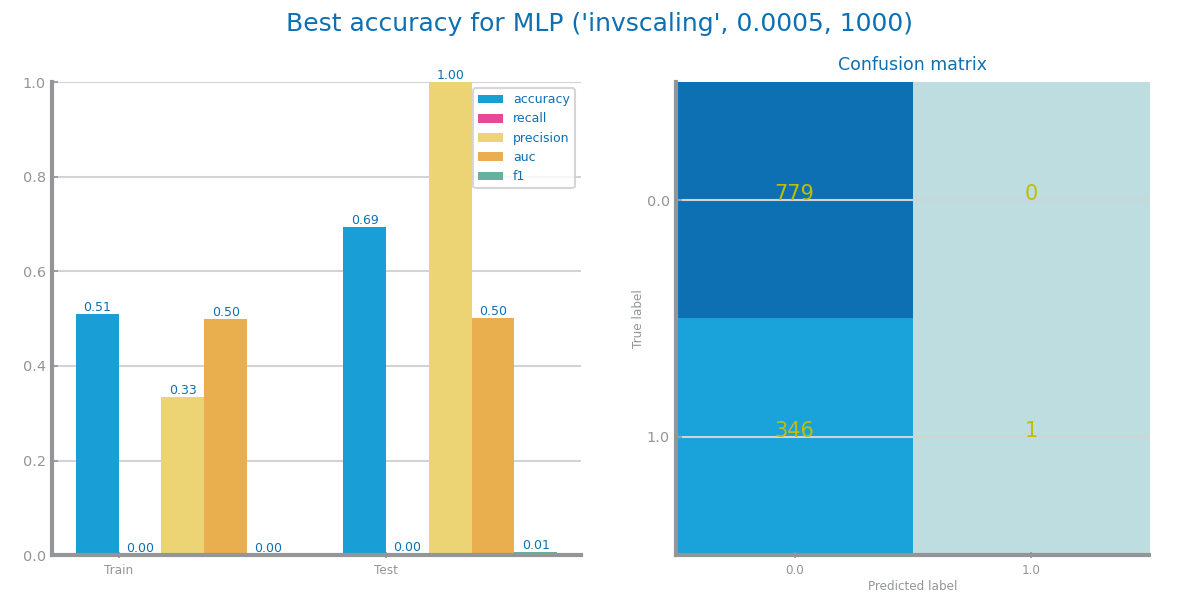
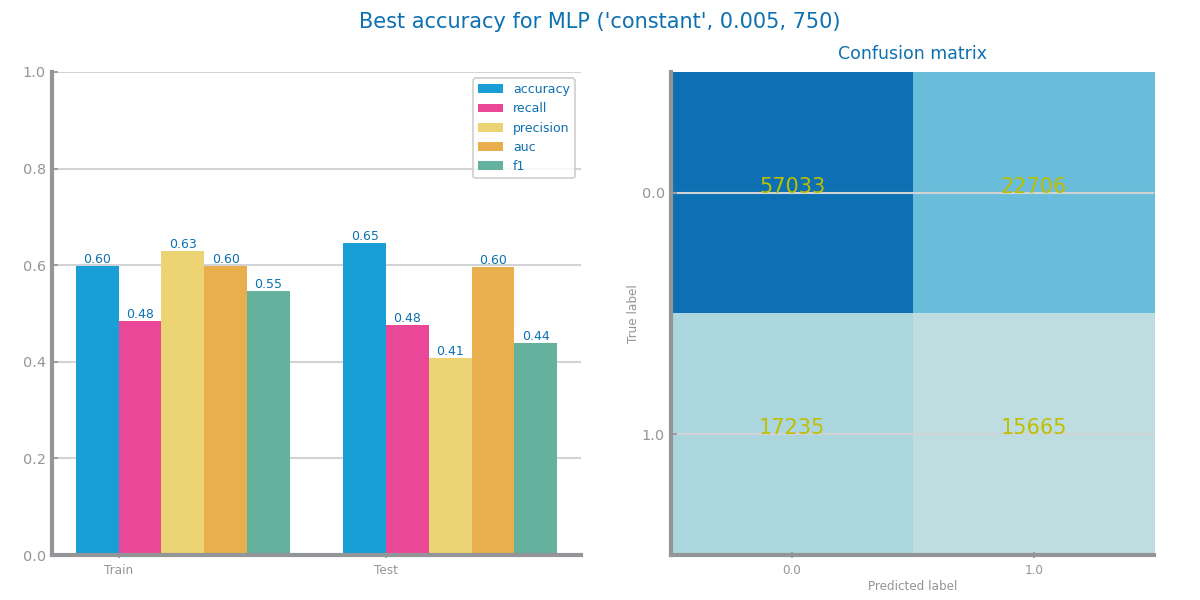
feat: MLP without sampling.

diff --git a/classification/models/pos_covid/mlp.py b/classification/models/pos_covid/mlp.py
@@ -14,7 +14,7 @@ test_filename = "../../data/pos_covid/processed_data/class_pos_covid_test_lowvar
 pos_covid_file_tag: str = "class_pos_covid"
 target = "CovidPos"
 
-run_sampling = True
+run_sampling = False
 sampling_amount = 0.01 if run_sampling else 1
 
 sample_tag = f"_1_{int(1 / sampling_amount)}th" if run_sampling else ""

diff --git a/TODO.md b/TODO.md
@@ -45,20 +45,20 @@
         * [ ] Report
 
 * [ ] **Modeling and Evaluation**:
-    * [ ] Naive Bayes
+    * [X] Naive Bayes
         * [X] Code and Charts
+        * [X] Report
+    * [ ] KNN - run without sampling for covid
+        * [ ] Code and Charts
         * [ ] Report
-    * [ ] KNN
+    * [X] Decision Trees
         * [X] Code and Charts
-        * [ ] Report
-    * [ ] Decision Trees
+        * [X] Report
+    * [X] Random Forest
         * [X] Code and Charts
-        * [ ] Report
-    * [ ] Random Forest
-        * [X] Code and Charts
-        * [ ] Report
-    * [ ] Gradient Boosting
-        * [X] Code and Charts
+        * [X] Report
+    * [ ] Gradient Boosting - run without sampling
+        * [ ] Code and Charts
         * [ ] Report
     * [ ] MLP
         * [X] Code and Charts
